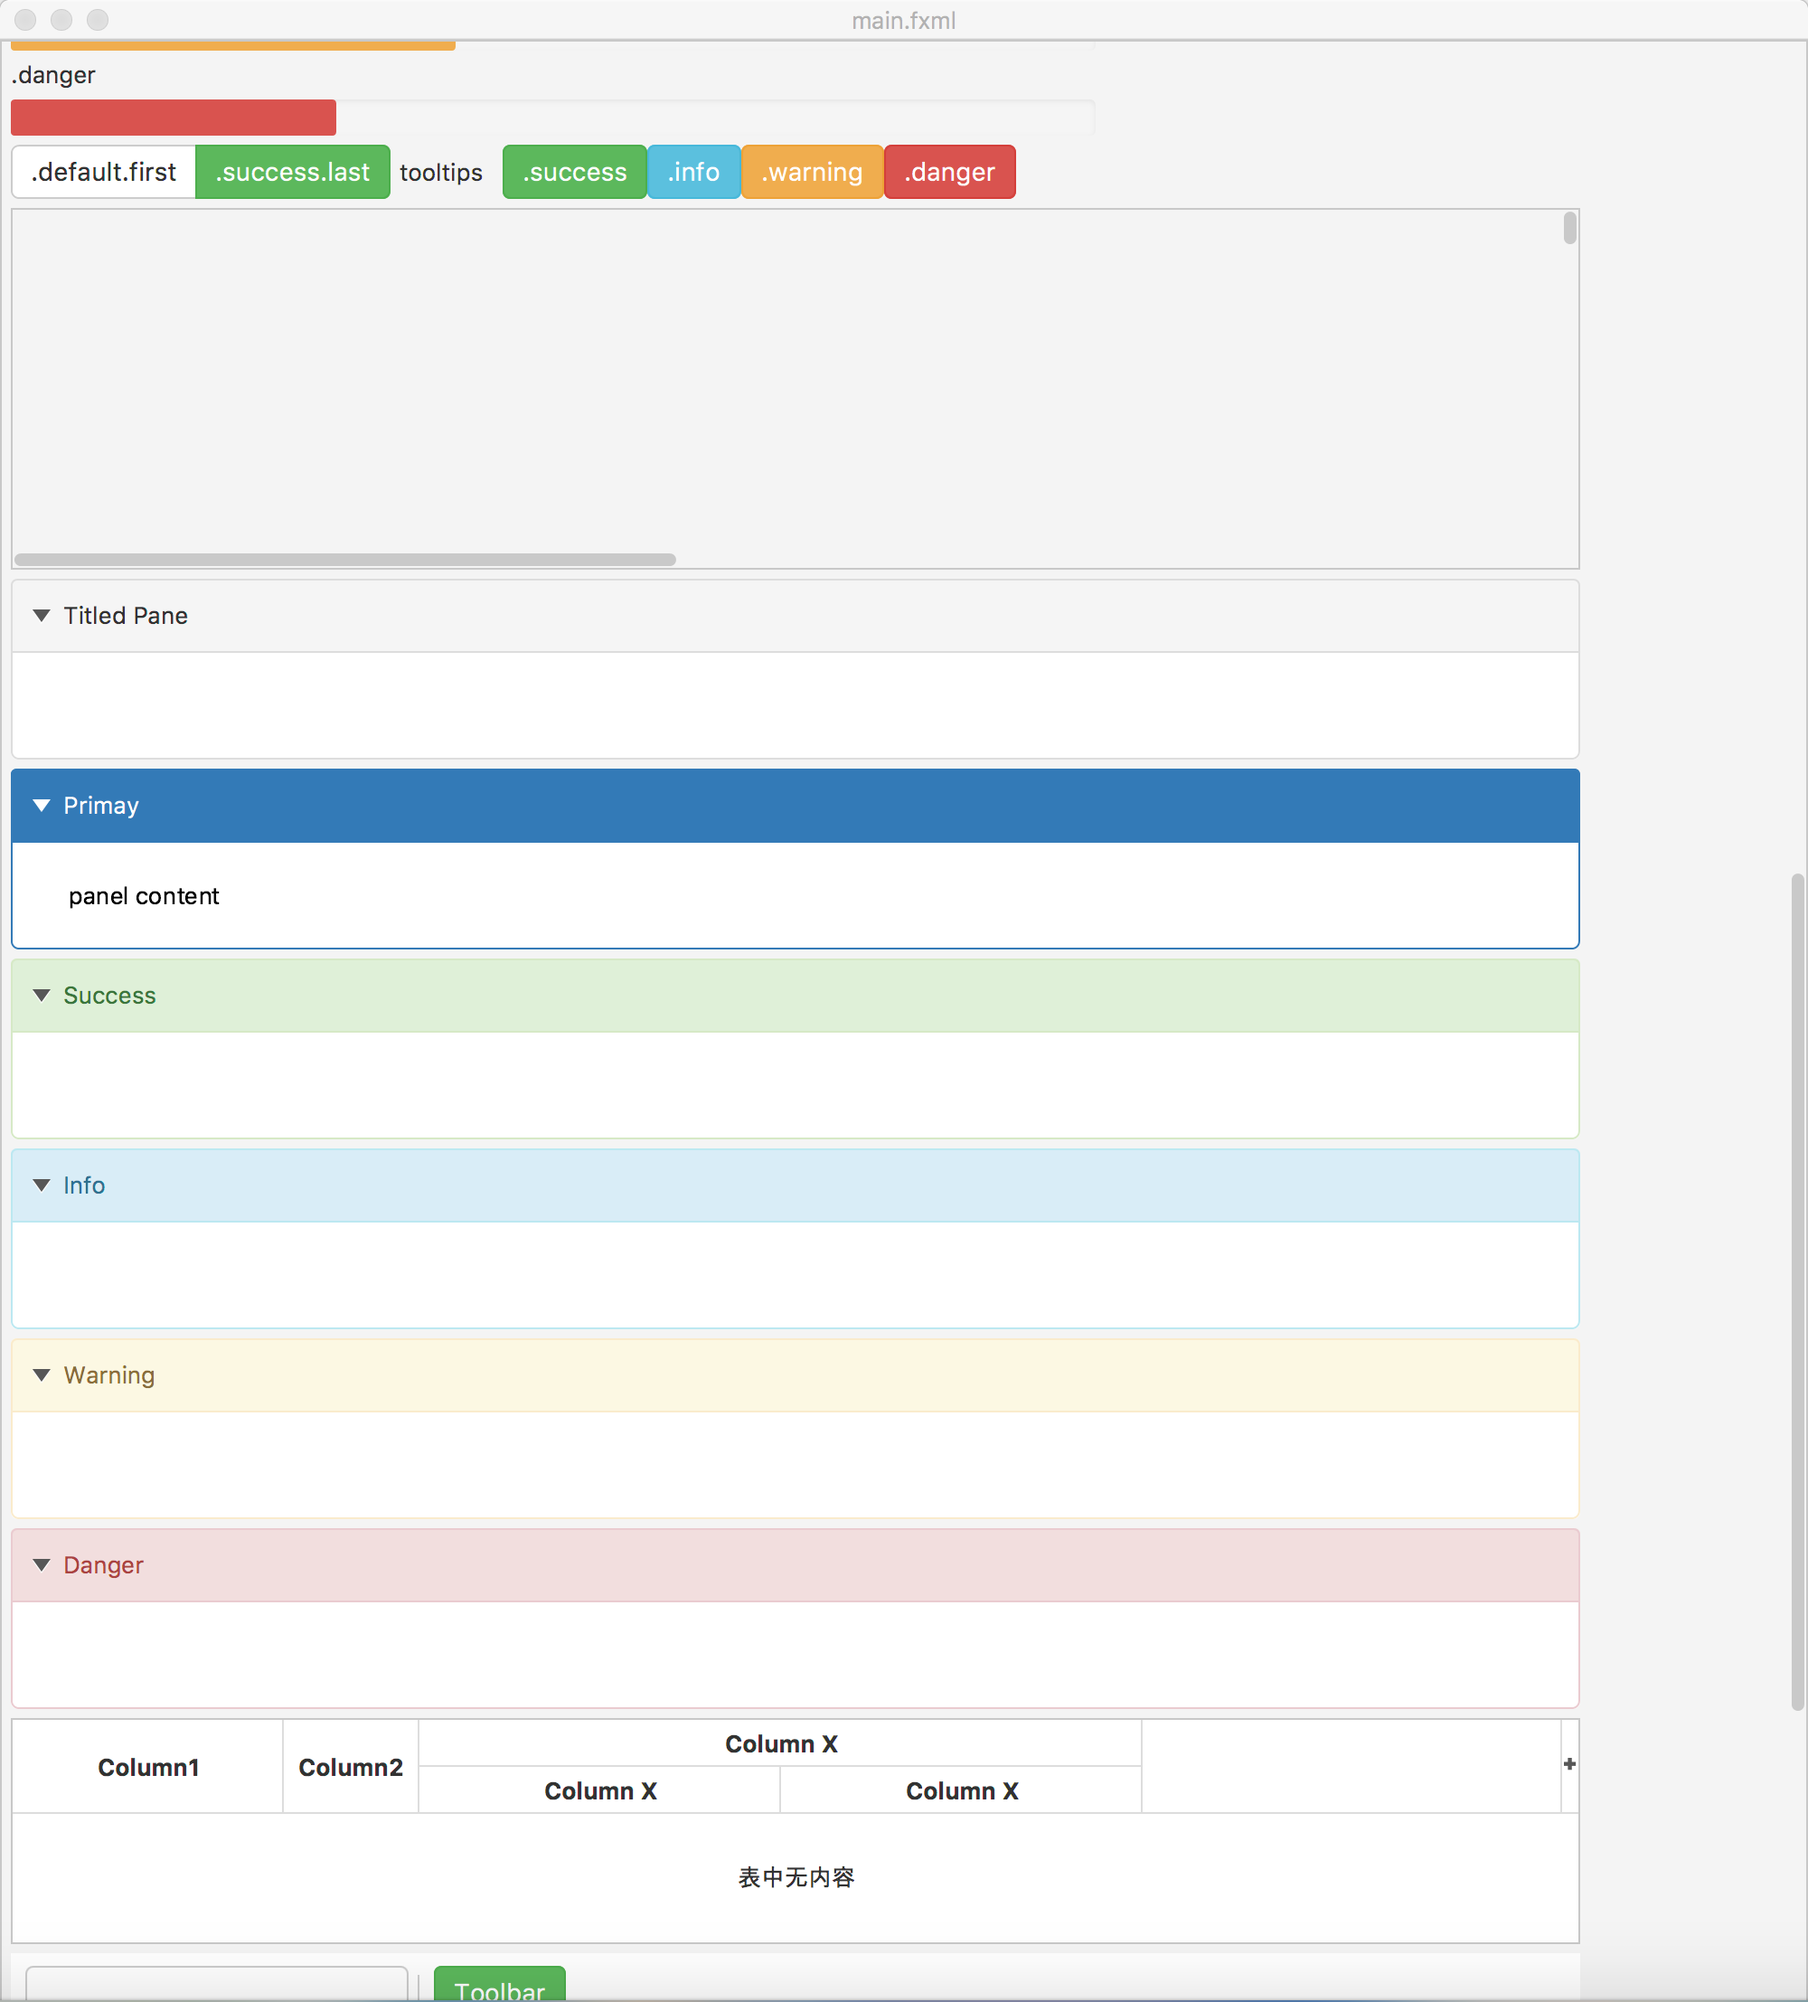
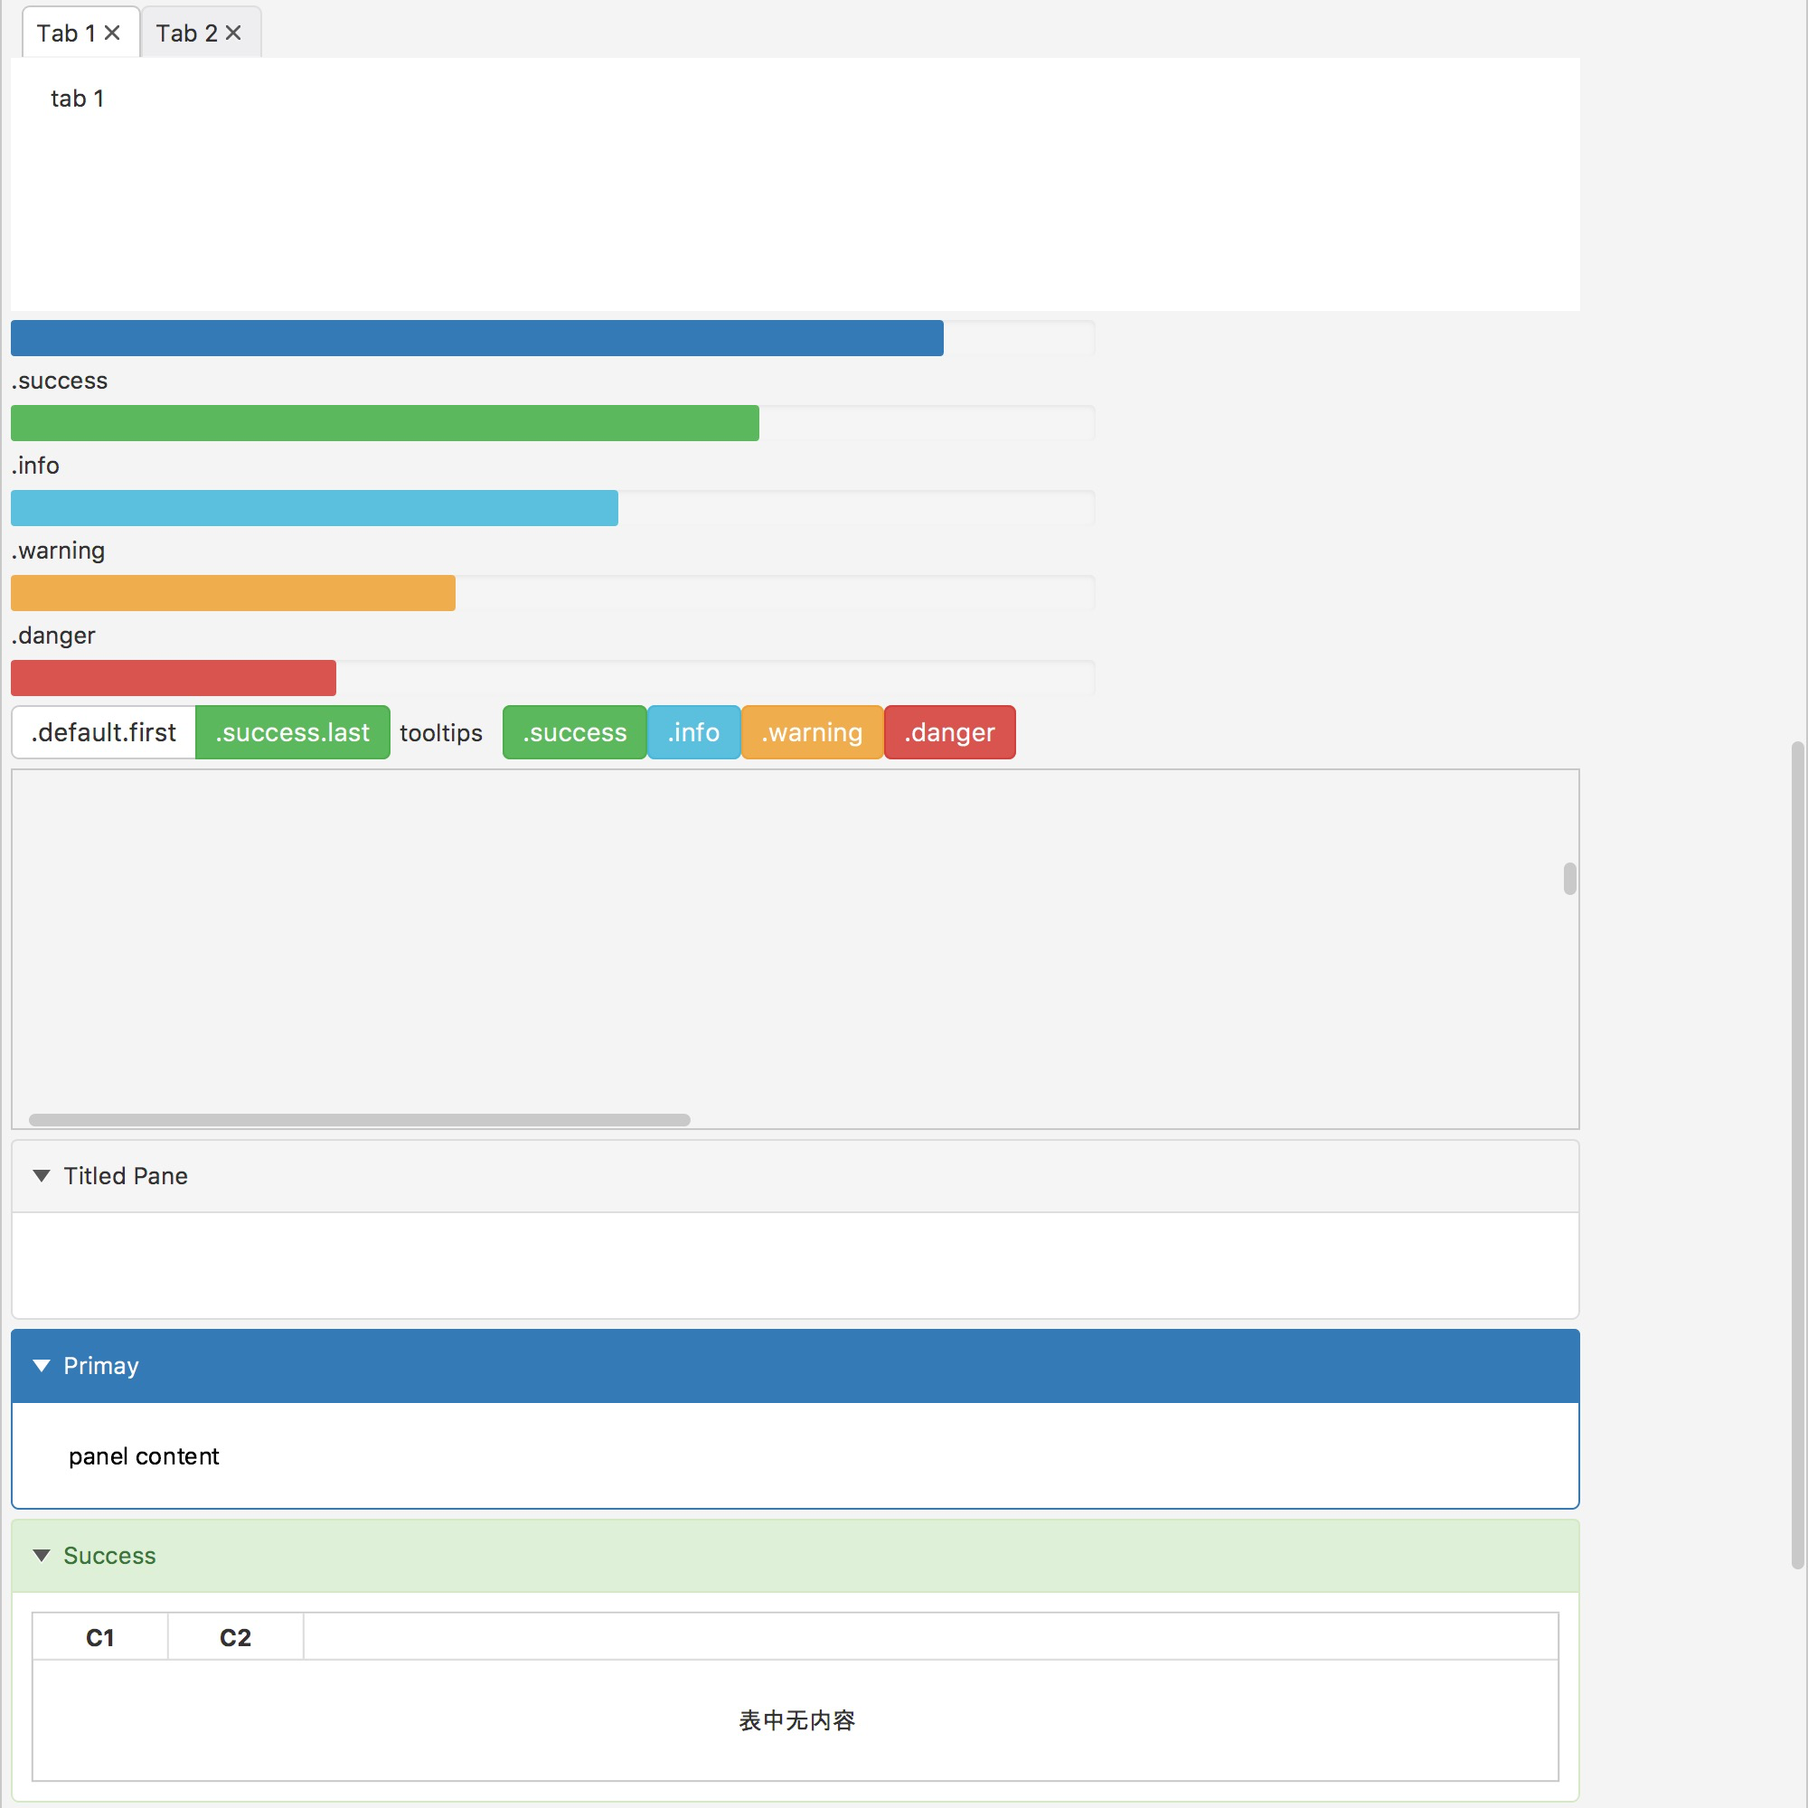
fixed table-view css bugs renamed to bootstrap3 bootstrap2 is ready to go!

diff --git a/bootstrap3.css b/bootstrap3.css
@@ -42,7 +42,7 @@
 	-fx-text-fill: white;
 }
 
-.button.action-btn, .split-menu-button.action-btn {
+.button.action-btn, .split-menu-button.action-btn, .menu-button.action-btn {
 	-fx-min-width: 80;
 }
 
@@ -399,6 +399,9 @@
 .menu-item:focused > * {
 	-fx-text-fill: #262626;
 }
+.menu-item:focused .arrow {
+	-fx-background-color: #333333;
+}
 
 .context-menu {
 	-fx-border-radius: 4;
@@ -463,12 +466,15 @@
 	-fx-border-radius: 4 4 0 0;
 	-fx-background-radius: 4 4 0 0;
 	-fx-background-color: #eeeeef;
-	-fx-border-color: #c2c2c2 #c2c2c2 transparent #c2c2c2;
+	-fx-border-color: #DEDEDD #DEDEDD transparent #DEDEDD;
 }
 
 .tab-pane .tab-header-area .tab:selected {
 	-fx-focus-color: transparent;
-	-fx-border-color: #adacac #adacac transparent #adacac;
+	-fx-border-color: #C8C8C8 #C8C8C8 transparent #C8C8C8;
+	-fx-background-color: white;
+}
+.tab-pane > .tab-content-area {
 	-fx-background-color: white;
 }
 
@@ -676,6 +682,7 @@
 	-fx-background-radius: 0 0 4 4;
 	-fx-border-radius: 0 0 4 4;
 	-fx-border-color: #dddddd;
+	/*-fx-padding: -11;*/
 }
 
 .titled-pane.primary {
@@ -773,6 +780,31 @@
 .filler,.column-header,.show-hide-columns-button {
 	-fx-background-color: #dddddd, white, white;
 }
+.show-hide-columns-button {
+	-fx-border-width: 0;
+	-fx-background-insets: 0 0 1 1;
+}
 .column-header:hover,.show-hide-columns-button:hover {
 	-fx-background-color: #dddddd, white, #f8f8f8;
 }
+.column-header-background > .filler {
+	-fx-border-color: transparent #c8c8c8 transparent transparent;
+	-fx-border-insets: 0 1 0 0;
+}
+.column-drag-header {
+	-fx-background-color: #2fb254;
+}
+
+VBox > .button.first,
+VBox > .split-menu-button.first,
+VBox > .menu-button.first {
+	-fx-border-radius: 4 4 0 0;
+	-fx-background-radius: 4 4 0 0;
+}
+VBox > .button.last,
+VBox > .split-menu-button.last,
+VBox > .menu-button.last {
+	-fx-border-radius: 0 0 4 4;
+	-fx-background-radius: 0 0 4 4;
+}
+

diff --git a/Main.java b/Main.java
@@ -15,7 +15,7 @@ public class Main extends Application {
 	@Override
 	public void start(Stage primaryStage) throws Exception {
 
-		FXMLLoader loader = new FXMLLoader(Main.class.getResource("main.fxml"));
+		FXMLLoader loader = new FXMLLoader(Main.class.getResource("bootstrap3overview.fxml"));
 		loader.load();
 
 		primaryStage.setScene(new Scene(loader.getRoot(), 800, 600));

diff --git a/README.md b/README.md
@@ -1,21 +1,22 @@
 # jbootx
-a javafx theme of bootstrap(3.x ver)
+a javafx theme of bootstrap
 
 got annoyed with the default Modena theme of JavaFx8?
 the bootstrap 3.x theme is very beautiful right?
 no worry, jbootx is what u r lookin for!
 have a look at it!
 
+##Bootstrap3
 ![](images/overview.png)
 ![](images/overview1.png)
 ![](images/overview2.png)
 
 it's very easy to use! that means,no java code is required!
 
-###involve the bootstrap.css to your project
+###just involve the bootstrap.css file in your project
 ~~~
-scene.getStylesheets().add(Main.class.getResource("bootstrap.css").toExternalForm());
+scene.getStylesheets().add(Main.class.getResource("bootstrap3.css").toExternalForm());
 ~~~
 Enjoy your self!
 
-##look into the main.fxml and learn how to use it!
+##look into the bootstrap3overview.fxml and learn how to use it!
